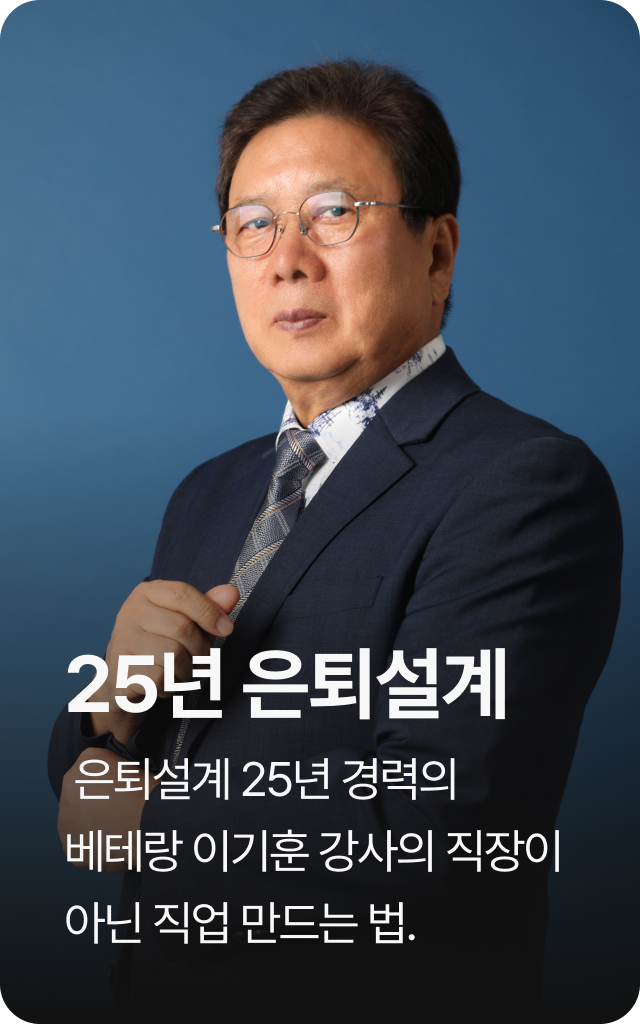
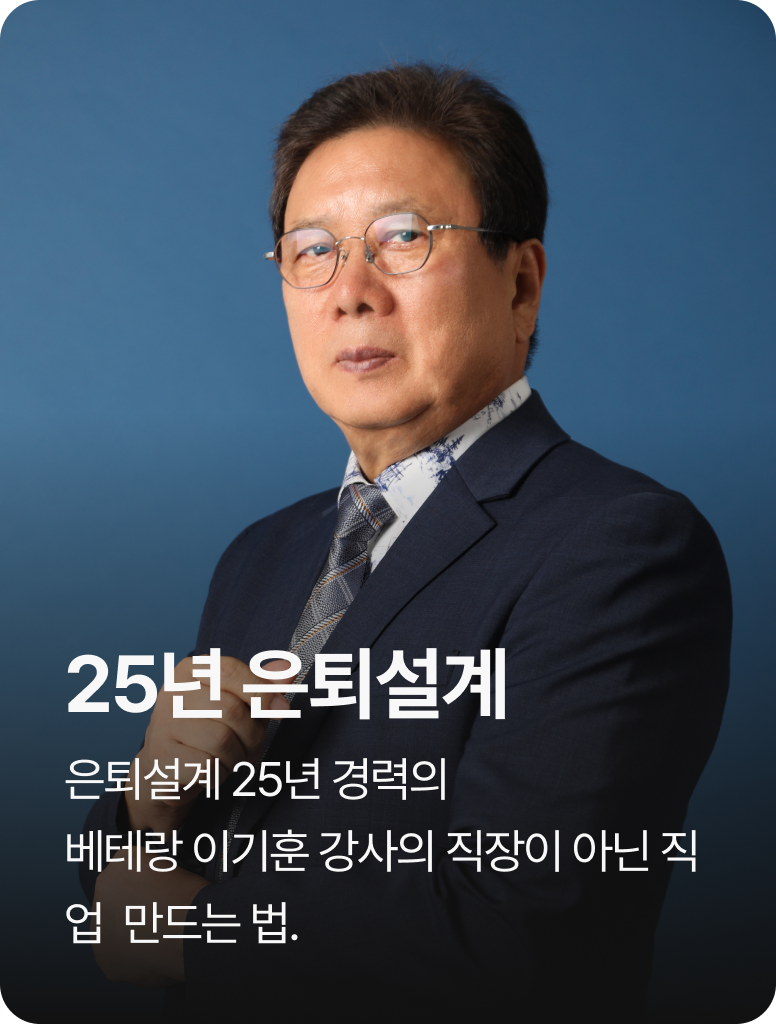
style : 메인페이지 디자인 스타일 수정

diff --git a/src/components/MainPage.jsx b/src/components/MainPage.jsx
@@ -91,18 +91,18 @@ const MainPage = () => {
         </button>
       </header>
 
-      <div className='px-6 mt-4'>
+      <div className='px-6'>
         <div className='relative'>
           <input
             type='text'
             placeholder='관심 분야, 강사명으로 검색하기'
-            className='w-full h-12 bg-[#2C2C2C] rounded-lg pl-4 pr-12 text-bc-white placeholder:text-gray-500'
+            className='w-full bg-[#2C2C2C] rounded-lg px-[12px] py-[8px] text-bc-white placeholder:text-[#828282] placeholder:text-[12px]'
           />
           <button className='absolute right-4 top-1/2 transform -translate-y-1/2 bg-transparent'>
             <img
               src='assets/search.svg'
               alt='search'
-              className='w-5 h-5 bg-transparent'
+              className='w-4 h-4 bg-transparent'
             />
           </button>
         </div>
@@ -113,7 +113,7 @@ const MainPage = () => {
           사전 예약자님께 추천하는 강의
         </h2>
 
-        <div className='grid grid-cols-2 gap-4'>
+        <div className='grid grid-cols-2 gap-4 mb-8'>
           {recommendedCourses.map(course => (
             <div
               key={course.id}
@@ -121,48 +121,33 @@ const MainPage = () => {
               onClick={() => handleCourseClick(course)}
               role='button'
               tabIndex={0}>
-              <div className='flex items-center gap-2 mb-2'>
-                {course.isPreReservation ? (
-                  <>
-                    <img
-                      src='assets/AR_icon1.svg'
-                      alt='fire'
-                      className='w-4 h-4'
-                    />
-                    <span className='text-sm text-bc-orange-1'>
-                      사전 예약 신청
-                    </span>
-                  </>
-                ) : (
-                  <>
-                    <img
-                      src={course.icon}
-                      alt={course.category}
-                      className='w-6 h-6'
-                    />
-                    <span className='text-sm text-bc-white'>
-                      {course.category}
-                    </span>
-                  </>
-                )}
+              <div className={"flex items-center gap-[5px] mb-0"}>
+                <img
+                  src={course.icon}
+                  alt={course.category}
+                  className='w-6 h-6'
+                />
+                <span className='text-sm text-bc-white'>{course.category}</span>
               </div>
               <div className='relative h-[210px] rounded-lg overflow-visible'>
                 {course.isPreReservation ? (
-                  <div className='w-full h-full bg-[#2C2C2C] rounded-lg p-4 flex flex-col justify-center'>
-                    <div className='text-center flex flex-col items-center'>
+                  <div className='w-full h-full bg-[#2C2C2C] rounded-lg p-4 flex flex-col justify-stretch'>
+                    <div className='w-full h-full text-center flex flex-col items-center justify-between'>
                       <button className='w-12 h-12 bg-transparent'>
                         <img
-                          src={course.icon}
+                          src={course.iconButton}
                           alt='subscribe'
                           className='w-full h-full'
                         />
                       </button>
-                      <h3 className='text-body-S font-bold mb-1 mt-2'>
-                        {course.title}
-                      </h3>
-                      <p className='text-xs text-gray-300 line-clamp-2'>
-                        {course.description}
-                      </p>
+                      <div>
+                        <h3 className='text-[14px] text-left text-xs font-bold mb-[8px] mt-2'>
+                          {course.title}
+                        </h3>
+                        <p className='text-[9px] text-left text-gray-300 line-clamp-4'>
+                          {course.description}
+                        </p>
+                      </div>
                     </div>
                   </div>
                 ) : (

diff --git a/src/components/recommendedCourses.js b/src/components/recommendedCourses.js
@@ -4,7 +4,7 @@ export const recommendedCourses = [
   // 권문현
   {
     id: 1,
-    image: "assets/권문현.png",
+    image: "assets/권문현2.png",
     ...categories["인문학 · 교양"],
     title: "47년 호텔경력",
     description:
@@ -136,7 +136,7 @@ export const recommendedCourses = [
   // 유니초이
   {
     id: 3,
-    image: "assets/유니초이.png",
+    image: "assets/유니초이2.png",
     ...categories["인문학 · 교양"],
     title: "20년 에티켓 마스터",
     description:
@@ -219,7 +219,7 @@ export const recommendedCourses = [
   // 이현구
   {
     id: 4,
-    image: "assets/이현구.png",
+    image: "assets/이현구2.png",
     ...categories["공학 · 기술"],
     title: "30년 마케팅 전문가",
     description: "30년 마케팅 베테랑의 AI 활용 비법:\n데이터에서 혁신으로",
@@ -300,7 +300,7 @@ export const recommendedCourses = [
   // 이재원
   {
     id: 5,
-    image: "assets/이재원.png",
+    image: "assets/이재원2.png",
     ...categories["인사 · 교육"],
     title: "15년 문화산업 전문가",
     description:
@@ -384,10 +384,11 @@ export const recommendedCourses = [
   // 사전예약
   {
     id: 6,
+    ...categories["사전 예약하기"],
     isPreReservation: true,
     title: "사전 예약하고 가장 먼저 시청해 보세요!",
     description:
-      "AI활용 / 유아교육 / SDGS / 클래식 인문학 / 일과 세대에 이해하기 등의 콘텐츠가 추가될 예정입니다.",
-    icon: "assets/button_subscribe.svg",
+      "AI 활용 / 유아 교육 / SDGs / 클래식 인문학 / 알파 세대 이해하기 등의 콘텐츠가 추가될 예정입니다.",
+    iconButton: "assets/button_subscribe.svg",
   },
 ];

diff --git a/dist/index.html b/dist/index.html
@@ -46,7 +46,7 @@
     // 창 크기 변경 시 CSS 변수 업데이트
     window.addEventListener('resize', setVh);
   </script>
-  <script type="module" crossorigin src="./assets/index-BrdoQcyy.js"></script>
+  <script type="module" crossorigin src="./assets/index-BnsKvSQf.js"></script>
   <link rel="stylesheet" crossorigin href="./assets/index-DfD9aGWl.css">
 </head>
 

diff --git a/src/components/categories.js b/src/components/categories.js
@@ -11,4 +11,8 @@ export const categories = {
     category: "공학 · 기술",
     icon: "assets/spinner.svg",
   },
+  "사전 예약하기": {
+    category: "사전 예약하기",
+    icon: "assets/search.svg",
+  },
 };
